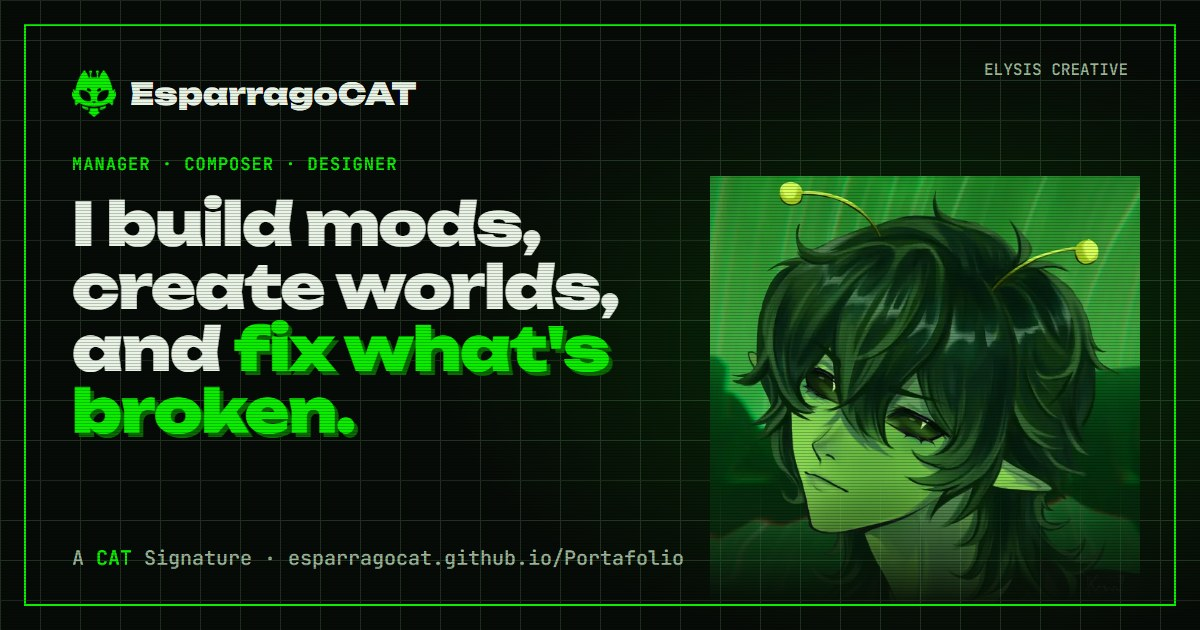
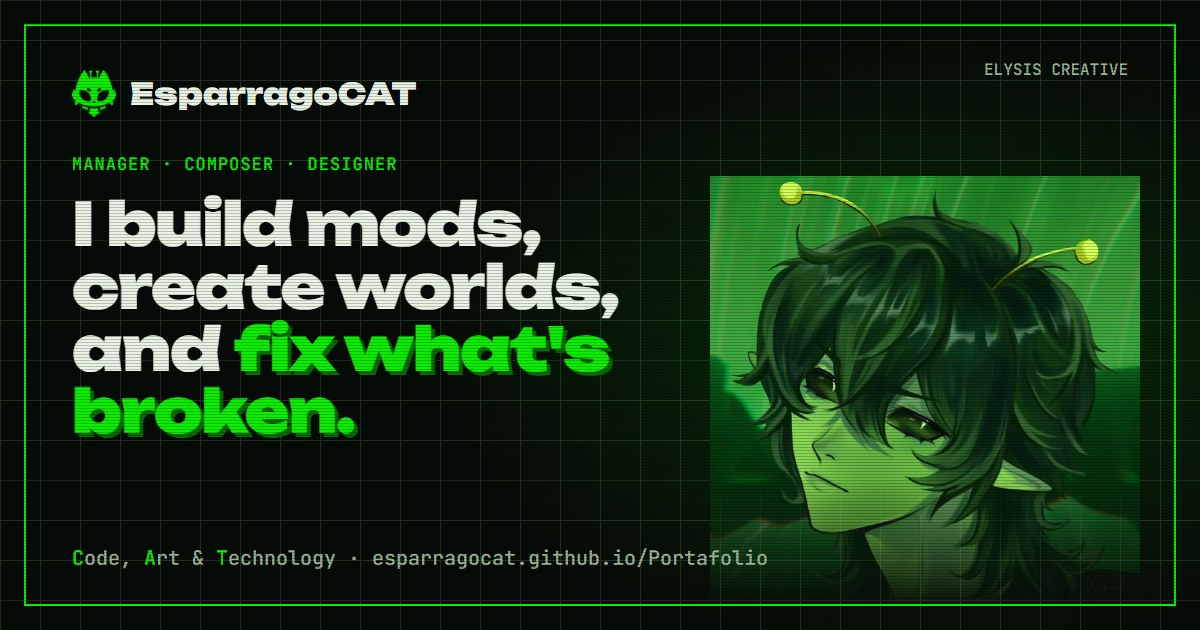
CAT: Code, Art & Technology en el pie y en la tarjeta de previsualización

Changed region(s): [[0.0617, 0.8746, 0.6475, 0.9048]]

diff --git a/index.html b/index.html
@@ -28,7 +28,7 @@
   <link rel="preconnect" href="https://fonts.googleapis.com">
   <link rel="preconnect" href="https://fonts.gstatic.com" crossorigin>
   <link href="https://fonts.googleapis.com/css2?family=Unbounded:wght@500;700;900&family=Space+Grotesk:wght@400;500;600&family=JetBrains+Mono:wght@500&family=VT323&display=swap" rel="stylesheet">
-  <link rel="stylesheet" href="css/site.css?v=2">
+  <link rel="stylesheet" href="css/site.css?v=3">
   <script>
     document.documentElement.classList.add('js');
     try { var m = localStorage.getItem('crt'); if (m) document.documentElement.className = document.documentElement.className.replace('crt-scan', 'crt-' + m); } catch (e) {}
@@ -238,14 +238,15 @@
 
   <footer class="pie">
     <span class="cat" aria-hidden="true"></span>
-    <p class="firma">A <span>CAT</span> Signature</p>
+    <p class="firma">A <abbr title="Code, Art &amp; Technology"><span>CAT</span></abbr> Signature</p>
+    <p class="sigla"><b>C</b>ode, <b>A</b>rt &amp; <b>T</b>echnology</p>
     <div class="pie-barra">
       <span><b>EsparragoCAT</b> · <span data-es="Manager, Compositor y Diseñador de Elysis Creative">Manager, Composer &amp; Designer at Elysis Creative</span></span>
       <span class="pie-links"><a href="https://www.youtube.com/@Esparragoh">YouTube</a><a href="https://soundcloud.com/esparragocat">SoundCloud</a><a href="https://github.com/EsparragoCAT">GitHub</a></span>
     </div>
   </footer>
 
-  <script src="js/site.js?v=2" defer></script>
-  <script src="js/audio.js?v=2" defer></script>
+  <script src="js/site.js?v=3" defer></script>
+  <script src="js/audio.js?v=3" defer></script>
 </body>
 </html>

diff --git a/css/site.css b/css/site.css
@@ -263,6 +263,9 @@ canvas.viz { width: 100%; height: 160px; display: block; background: #040704; }
 .pie .cat { width: 72px; }
 .firma { font: 900 clamp(48px, 11.5vw, 176px)/.86 var(--display); letter-spacing: -.045em; color: var(--hueso); }
 .firma span { color: var(--verde); }
+.firma abbr { text-decoration: none; }
+.sigla { margin-top: -10px; font: 500 clamp(14px, 1.6vw, 20px)/1.3 var(--mono); letter-spacing: .14em; text-transform: uppercase; color: var(--liquen); }
+.sigla b { color: var(--verde); font-weight: 500; }
 .pie-barra { display: flex; flex-wrap: wrap; justify-content: space-between; gap: 12px 24px; padding-top: 20px; border-top: 1px solid var(--linea); font: 500 12px/1.6 var(--mono); color: var(--liquen); }
 .pie-barra b { font-weight: 500; color: var(--verde); }
 .pie-links { display: flex; gap: 20px; }
